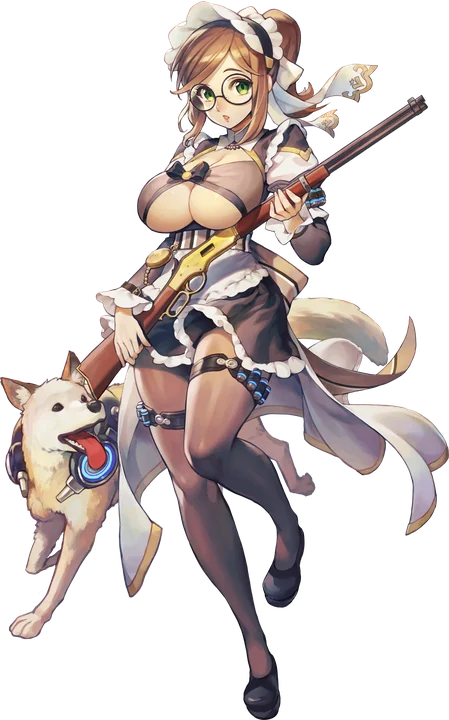
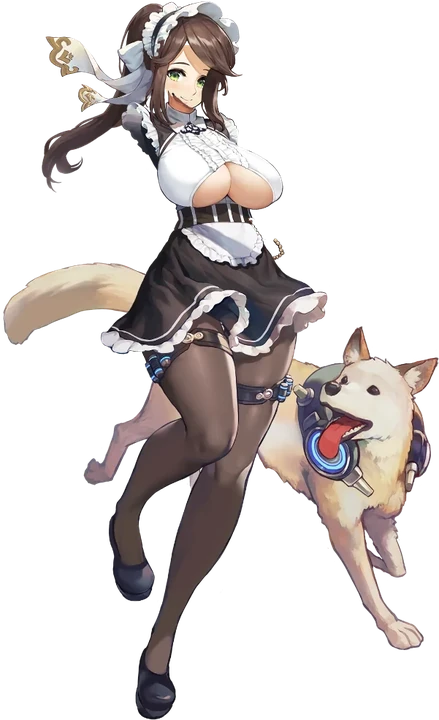
콘스탄챠 전신 일러스트를 정상 그림으로 교체 (교체 그림 캐시 무효화 ASSET_REV 추가), v0.27

diff --git a/index.html b/index.html
@@ -3,7 +3,7 @@
 <head>
 <meta charset="utf-8">
 <meta name="viewport" content="width=device-width,initial-scale=1,maximum-scale=1,user-scalable=no">
-<title>라켓몬스터 - RACKET MONSTER v0.26</title>
+<title>라켓몬스터 - RACKET MONSTER v0.27</title>
 <link rel="preconnect" href="https://fonts.googleapis.com">
 <link href="https://fonts.googleapis.com/css2?family=Black+Han+Sans&family=Noto+Sans+KR:wght@500;600;700;800;900&display=swap" rel="stylesheet">
 <style>
@@ -67,37 +67,37 @@
   </div>
   <div class="btn" data-act="menu">MENU</div>
 </div>
-<script src="js/sd.js?v=112"></script>
-<script src="js/sd/index.js?v=112"></script>
-<script src="js/assetsizes.js?v=112"></script>
-<script src="js/facing.js?v=112"></script>
-<script src="js/forms.js?v=112"></script>
-<script src="js/skinnames.js?v=112"></script>
-<script src="js/data.js?v=112"></script>
-<script src="js/fximg.js?v=112"></script>
-<script src="js/fx.js?v=112"></script>
-<script src="js/core.js?v=112"></script>
-<script src="js/ui.js?v=112"></script>
-<script src="js/battleanchor-data.js?v=112"></script>
-<script src="js/battleanchors.js?v=112"></script>
-<script src="js/battle.js?v=112"></script>
-<script src="js/battleui.js?v=112"></script>
-<script src="js/fx/_meta.js?v=112"></script>
-<script src="js/fxbake.js?v=112"></script>
-<script src="js/battlefx.js?v=112"></script>
-<script src="js/maps.js?v=112"></script>
-<script src="js/sdfield.js?v=112"></script>
-<script src="js/commander.js?v=112"></script>
-<script src="js/world.js?v=112"></script>
-<script src="js/terrain.js?v=112"></script>
-<script src="js/game.js?v=112"></script>
-<script src="js/league.js?v=112"></script>
-<script src="js/rosterdata.js?v=112"></script>
-<script src="js/roster.js?v=112"></script>
-<script src="js/quests.js?v=112"></script>
-<script src="js/mobilefield.js?v=112"></script>
-<script src="js/portraitui.js?v=112"></script>
-<script src="js/titlelayout.js?v=112"></script>
-<script src="js/crashlog.js?v=112"></script>
+<script src="js/sd.js?v=114"></script>
+<script src="js/sd/index.js?v=114"></script>
+<script src="js/assetsizes.js?v=114"></script>
+<script src="js/facing.js?v=114"></script>
+<script src="js/forms.js?v=114"></script>
+<script src="js/skinnames.js?v=114"></script>
+<script src="js/data.js?v=114"></script>
+<script src="js/fximg.js?v=114"></script>
+<script src="js/fx.js?v=114"></script>
+<script src="js/core.js?v=114"></script>
+<script src="js/ui.js?v=114"></script>
+<script src="js/battleanchor-data.js?v=114"></script>
+<script src="js/battleanchors.js?v=114"></script>
+<script src="js/battle.js?v=114"></script>
+<script src="js/battleui.js?v=114"></script>
+<script src="js/fx/_meta.js?v=114"></script>
+<script src="js/fxbake.js?v=114"></script>
+<script src="js/battlefx.js?v=114"></script>
+<script src="js/maps.js?v=114"></script>
+<script src="js/sdfield.js?v=114"></script>
+<script src="js/commander.js?v=114"></script>
+<script src="js/world.js?v=114"></script>
+<script src="js/terrain.js?v=114"></script>
+<script src="js/game.js?v=114"></script>
+<script src="js/league.js?v=114"></script>
+<script src="js/rosterdata.js?v=114"></script>
+<script src="js/roster.js?v=114"></script>
+<script src="js/quests.js?v=114"></script>
+<script src="js/mobilefield.js?v=114"></script>
+<script src="js/portraitui.js?v=114"></script>
+<script src="js/titlelayout.js?v=114"></script>
+<script src="js/crashlog.js?v=114"></script>
 </body>
 </html>

diff --git a/js/facing.js b/js/facing.js
@@ -1,3 +1,3 @@
 // 일러스트의 얼굴·몸 방향 (L: 화면 왼쪽, R: 화면 오른쪽, 없으면 정면). 전투에서 상대를 바라보도록 반전에 사용
-const FACING = {"spartana": "R", "spartanb": "R", "alvis": "R", "amy": "L", "atalanta": "R", "audrey": "L", "blackhound_1": "L", "brownie": "R", "bulgasari_1": "R", "bulgasari_2": "R", "calista": "R", "daika_1": "R", "daphne": "L", "darkelf": "R", "echidna": "L", "efreeti": "R", "emily": "L", "eternity": "L", "eternity_3": "R", "fenrir": "R", "fortune": "L", "gigantes": "L", "gnome": "L", "gnome_2": "L", "goltarion_1": "L", "gremlin": "R", "gremlin_1": "R", "harpy": "L", "harpy_1": "L", "harpy_2": "L", "hraesvelgr_1": "L", "hraesvelgr_2": "R", "hyena": "L", "impet": "L", "johanna": "R", "kheshig": "L", "labiata": "L", "lemonepsilon": "R", "lemonzeta": "L", "leona_1": "L", "leona_2": "R", "leprechaun": "R", "lindwurm": "L", "lindwurm_2": "L", "mariagrace": "L", "miho": "L", "miho_1": "L", "nymph": "R", "nymph_1": "R", "nymph_2": "L", "phantom": "L", "phoenix": "L", "pixie": "L", "poi": "R", "raven": "R", "roc": "L", "roc_1": "R", "shirayuri": "L", "spriggan": "L", "spriggan_1": "L", "sylphid": "R", "talonfeather": "R", "thetis": "R", "tomoe": "L", "tyrant": "R", "tyrant_1": "L", "undine_1": "R", "valkyrie": "R", "valkyrie_3": "L", "vanilla": "L"};
+const FACING = {"constantia": "L", "spartana": "R", "spartanb": "R", "alvis": "R", "amy": "L", "atalanta": "R", "audrey": "L", "blackhound_1": "L", "brownie": "R", "bulgasari_1": "R", "bulgasari_2": "R", "calista": "R", "daika_1": "R", "daphne": "L", "darkelf": "R", "echidna": "L", "efreeti": "R", "emily": "L", "eternity": "L", "eternity_3": "R", "fenrir": "R", "fortune": "L", "gigantes": "L", "gnome": "L", "gnome_2": "L", "goltarion_1": "L", "gremlin": "R", "gremlin_1": "R", "harpy": "L", "harpy_1": "L", "harpy_2": "L", "hraesvelgr_1": "L", "hraesvelgr_2": "R", "hyena": "L", "impet": "L", "johanna": "R", "kheshig": "L", "labiata": "L", "lemonepsilon": "R", "lemonzeta": "L", "leona_1": "L", "leona_2": "R", "leprechaun": "R", "lindwurm": "L", "lindwurm_2": "L", "mariagrace": "L", "miho": "L", "miho_1": "L", "nymph": "R", "nymph_1": "R", "nymph_2": "L", "phantom": "L", "phoenix": "L", "pixie": "L", "poi": "R", "raven": "R", "roc": "L", "roc_1": "R", "shirayuri": "L", "spriggan": "L", "spriggan_1": "L", "sylphid": "R", "talonfeather": "R", "thetis": "R", "tomoe": "L", "tyrant": "R", "tyrant_1": "L", "undine_1": "R", "valkyrie": "R", "valkyrie_3": "L", "vanilla": "L"};
 function artFlip(name, wantDir) { const f = FACING[name] || FACING[name.replace(/_dam$/, '')]; return !!f && f !== wantDir; }

diff --git a/js/core.js b/js/core.js
@@ -363,11 +363,14 @@ document.addEventListener('visibilitychange', () => { try { Audio2.setHidden(doc
 const IMG = { full: {}, icon: {}, bg: {}, room: {}, bld: {} };
 const _lazy = {};
 // 필요할 때 불러오는 이미지 (스킨 진화 형태 / 중파 일러스트)
+// 같은 파일명으로 교체한 그림은 브라우저 캐시에 옛 그림이 남으므로 여기에 번호를 올려 새로 받게 한다
+const ASSET_REV = { 'full/constantia': 2 };
+const assetUrl = (cat, name) => 'assets/' + cat + '/' + name + '.webp' + (ASSET_REV[cat + '/' + name] ? '?r=' + ASSET_REV[cat + '/' + name] : '');
 function lazyImg(cat, name) {
   const im = IMG[cat][name];
   if (im) return im._bad ? null : im;
   const k = cat + '/' + name;
-  if (!_lazy[k]) { _lazy[k] = 1; loadImage('assets/' + cat + '/' + name + '.webp').then(i => { IMG[cat][name] = i; }); }
+  if (!_lazy[k]) { _lazy[k] = 1; loadImage(assetUrl(cat, name)).then(i => { IMG[cat][name] = i; }); }
   return null;
 }
 function loadImage(src) {
@@ -377,7 +380,7 @@ async function loadAssets(onProgress) {
   const jobs = [];
   const keys = Object.keys(ASSET_SIZES);
   for (const k of keys) {
-    jobs.push(['full', k, 'assets/full/' + k + '.webp']);
+    jobs.push(['full', k, assetUrl('full', k)]);
     jobs.push(['icon', k, 'assets/icon/' + k + '.webp']);
   }
   for (const b of ['base', 'route', 'forest', 'town', 'coast', 'cliff', 'nest', 'nightcliff', 'lighttower', 'hangar', 'camp', 'beach', 'sky', 'hospital', 'px'])

diff --git a/js/game.js b/js/game.js
@@ -64,7 +64,7 @@ class Mon {
 //  게임 상태
 // ---------------------------------------------------------------------
 const SAVE_KEY = 'racketmon_save_v1';
-const GAME_VERSION = 'v0.26';
+const GAME_VERSION = 'v0.27';
 const Game = {
   party: [], box: [], bag: {}, money: 3000, dex: { seen: {}, caught: {} }, flags: {}, badges: [], stats: {}, taken: {}, quests: {},
   map: 'lab', px: 6, py: 6, dir: 'up', playTime: 0, lastHeal: ['center1', 7, 7, 'up'], pendingPromote: new Set(),

diff --git a/js/assetsizes.js b/js/assetsizes.js
@@ -54,7 +54,7 @@ const ASSET_SIZES = {
   labiata: [631, 720],
   daphne: [577, 720],
   vanilla: [554, 720],
-  constantia: [449, 720],
+  constantia: [439, 720],
   audrey: [561, 720],
   emily: [687, 720],
   alvis: [450, 720],
